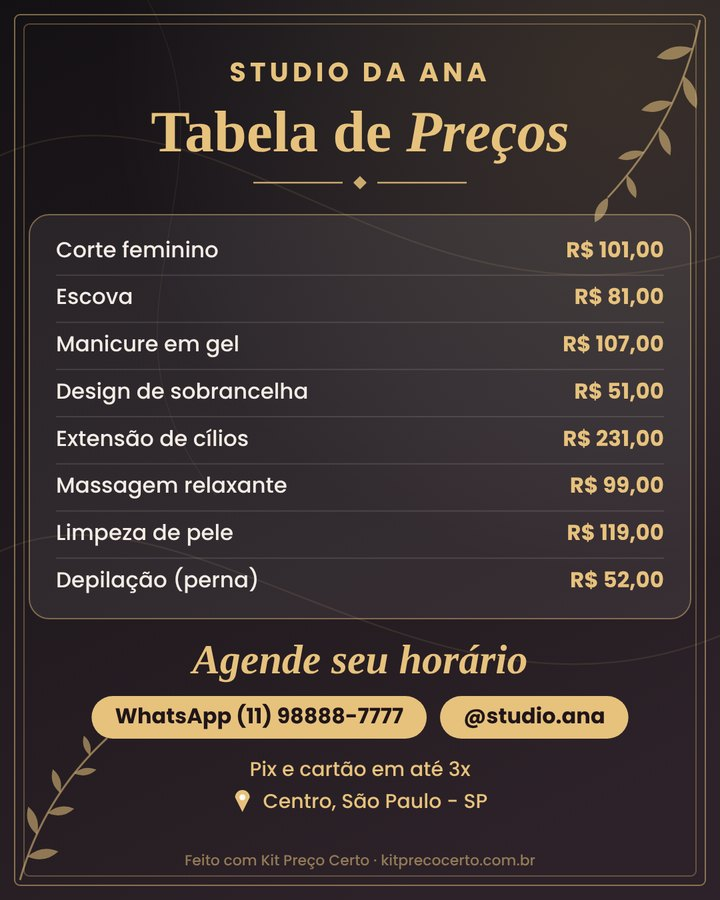
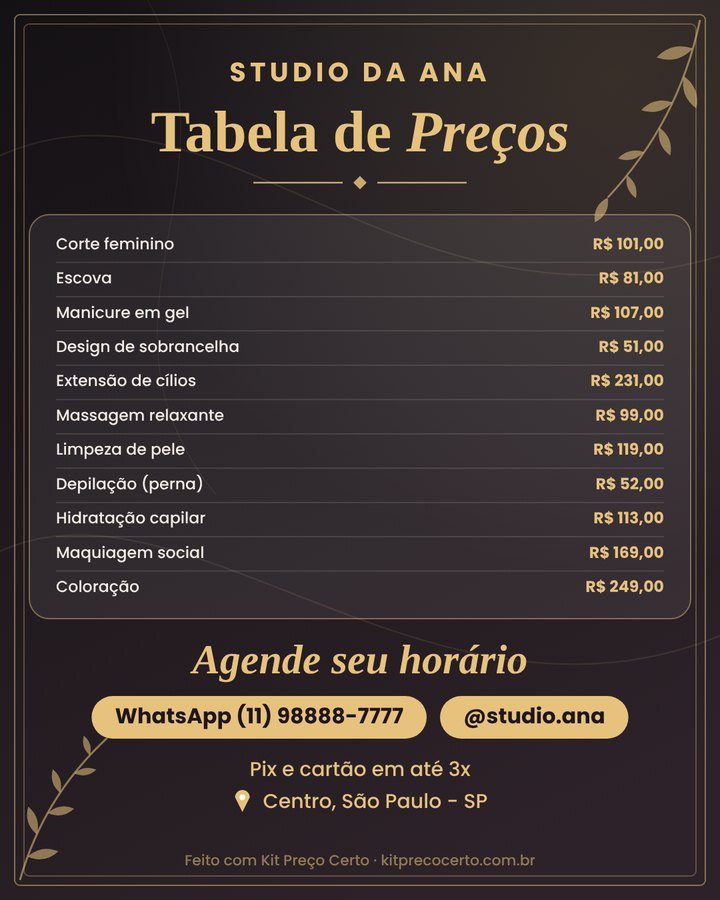
Tabelas de exemplo com 11 servicos e aviso de que os servicos nao sao fixos
Claude-Session: https://claude.ai/code/session_01VVXSWQenri3WwETC67snQx

Changed region(s): [[0.0611, 0.2489, 0.4278, 0.6844], [0.7639, 0.2489, 0.9472, 0.6844]]

diff --git a/index.html b/index.html
@@ -6,7 +6,7 @@
 <link rel="icon" type="image/png" href="favicon.png"><link rel="apple-touch-icon" href="apple-touch-icon.png">
 <link rel="preconnect" href="https://fonts.googleapis.com"><link rel="preconnect" href="https://fonts.gstatic.com" crossorigin>
 <link href="https://fonts.googleapis.com/css2?family=Fredoka:wght@600;700&family=Poppins:wght@400;500;600;700;800&family=Dancing+Script:wght@700&display=swap" rel="stylesheet">
-<link rel="stylesheet" href="style.css?v=128">
+<link rel="stylesheet" href="style.css?v=129">
 <script>document.documentElement.className+=' js';</script><script>try{if(/[?&]ignorar=1/.test(location.search))localStorage.setItem("umami.disabled","1");if(/[?&]ignorar=0/.test(location.search))localStorage.removeItem("umami.disabled")}catch(e){}</script>
 <script defer src="https://stats.kitprecocerto.com.br/script.js" data-website-id="849c7c60-d34a-4f54-abd3-b72d5e8b705a"></script>
 </head><body>
@@ -88,13 +88,13 @@
           <p class="out">Você leva a tabela pronta, em Stories e Feed</p></li>
       </ol>
       <a class="btn how-btn" href="#baixar">Quero fazer os 3 passos grátis</a>
-      <p class="how-note">Telas de <b>exemplo</b>. Seus serviços e valores ficam só no seu celular.</p>
+      <p class="how-note">Telas de <b>exemplo</b>: os serviços <b>não são fixos</b>. Você coloca os que faz, com os seus valores, e tudo fica só no seu celular.</p>
     </section>
     <div class="deliver-h" id="estilos"><span>No final, uma tabela com a cara do seu negócio</span></div>
     <div class="deliver">
     <figure class="hero-tab" id="tp" aria-label="Exemplos da imagem da tabela de preços que a calculadora gera (valores de exemplo)">
       <p class="ex-bar">✨ Exemplo: coloque os <b>seus</b> serviços</p>
-      <div class="tp-stage"><img src="tab-rosa.jpg?v=5" width="720" height="900" alt="Tabela de preços no estilo Rosa, com serviços e valores de exemplo" class="on"><img src="tab-vinho.jpg?v=5" width="720" height="900" alt="Tabela de preços no estilo Vinho e dourado, com serviços e valores de exemplo" class="" loading="lazy"><img src="tab-preto.jpg?v=5" width="720" height="900" alt="Tabela de preços no estilo Preto e dourado, com serviços e valores de exemplo" class="" loading="lazy"><img src="tab-lilas.jpg?v=5" width="720" height="900" alt="Tabela de preços no estilo Lilás, com serviços e valores de exemplo" class="" loading="lazy"><img src="tab-verde.jpg?v=5" width="720" height="900" alt="Tabela de preços no estilo Verde sálvia, com serviços e valores de exemplo" class="" loading="lazy"><img src="tab-nude.jpg?v=5" width="720" height="900" alt="Tabela de preços no estilo Nude, com serviços e valores de exemplo" class="" loading="lazy"></div>
+      <div class="tp-stage"><img src="tab-rosa.jpg?v=6" width="720" height="900" alt="Tabela de preços no estilo Rosa, com serviços e valores de exemplo" class="on"><img src="tab-vinho.jpg?v=6" width="720" height="900" alt="Tabela de preços no estilo Vinho e dourado, com serviços e valores de exemplo" class="" loading="lazy"><img src="tab-preto.jpg?v=6" width="720" height="900" alt="Tabela de preços no estilo Preto e dourado, com serviços e valores de exemplo" class="" loading="lazy"><img src="tab-lilas.jpg?v=6" width="720" height="900" alt="Tabela de preços no estilo Lilás, com serviços e valores de exemplo" class="" loading="lazy"><img src="tab-verde.jpg?v=6" width="720" height="900" alt="Tabela de preços no estilo Verde sálvia, com serviços e valores de exemplo" class="" loading="lazy"><img src="tab-nude.jpg?v=6" width="720" height="900" alt="Tabela de preços no estilo Nude, com serviços e valores de exemplo" class="" loading="lazy"></div>
       <div class="tp-dots" role="radiogroup" aria-label="Escolha o estilo da tabela"><span class="tp-d on" role="radio" tabindex="0" aria-checked="true" aria-label="Estilo Rosa" data-i="0" style="background:linear-gradient(135deg,#FBD3E2,#E91E78)"></span><span class="tp-d" role="radio" tabindex="0" aria-checked="false" aria-label="Estilo Vinho e dourado" data-i="1" style="background:linear-gradient(135deg,#8a1a50,#f6d27a)"></span><span class="tp-d" role="radio" tabindex="0" aria-checked="false" aria-label="Estilo Preto e dourado" data-i="2" style="background:linear-gradient(135deg,#211a1f,#e7c27d)"></span><span class="tp-d" role="radio" tabindex="0" aria-checked="false" aria-label="Estilo Lilás" data-i="3" style="background:linear-gradient(135deg,#E5CBF2,#8e44ad)"></span><span class="tp-d" role="radio" tabindex="0" aria-checked="false" aria-label="Estilo Verde sálvia" data-i="4" style="background:linear-gradient(135deg,#D8E7D4,#4f8a5b)"></span><span class="tp-d" role="radio" tabindex="0" aria-checked="false" aria-label="Estilo Nude" data-i="5" style="background:linear-gradient(135deg,#F1DEC8,#b0693f)"></span></div>
       <p class="tp-name" id="tpn">Estilo: Rosa</p>
       <figcaption><b>Serviços de exemplo.</b> Os seus entram na calculadora.</figcaption>
@@ -123,7 +123,7 @@
       <div class="duo-ic"><svg viewBox="0 0 24 24" fill="none" stroke="currentColor" stroke-width="1.8" stroke-linecap="round" stroke-linejoin="round"><rect x="7" y="2.5" width="10" height="19" rx="2.5"/><path d="M11 18.5h2"/></svg></div>
       <h3>Calculadora no celular</h3>
       <p>Descubra o preço certo de cada serviço e transforme em uma tabela bonita, pronta para divulgar.</p>
-      <div class="duo-thumbs" aria-hidden="true"><img src="tab-rosa.jpg?v=5" width="720" height="900" alt="" loading="lazy"><img src="tab-vinho.jpg?v=5" width="720" height="900" alt="" loading="lazy"><img src="tab-nude.jpg?v=5" width="720" height="900" alt="" loading="lazy"><span>6 estilos de cor</span></div>
+      <div class="duo-thumbs" aria-hidden="true"><img src="tab-rosa.jpg?v=6" width="720" height="900" alt="" loading="lazy"><img src="tab-vinho.jpg?v=6" width="720" height="900" alt="" loading="lazy"><img src="tab-nude.jpg?v=6" width="720" height="900" alt="" loading="lazy"><span>6 estilos de cor</span></div>
       <ul>
         <li>Calcula o preço de cada serviço, com lucro</li>
         <li>Você escolhe a cor e coloca o seu nome, Instagram e WhatsApp</li>

diff --git a/obrigado.html b/obrigado.html
@@ -18,12 +18,12 @@
 <p class="ob-k">Seu celular é a ferramenta principal</p>
 <h2 class="ob-h">Escolha o estilo da sua tabela de preços</h2>
 <div class="ob-strip" aria-label="6 estilos de tabela de preços (valores de exemplo)">
-<figure><img src="tab-rosa.jpg?v=5" width="720" height="900" alt="Estilo Rosa" loading="lazy"><figcaption>Rosa</figcaption></figure>
-<figure><img src="tab-vinho.jpg?v=5" width="720" height="900" alt="Estilo Vinho e dourado" loading="lazy"><figcaption>Vinho</figcaption></figure>
-<figure><img src="tab-preto.jpg?v=5" width="720" height="900" alt="Estilo Preto e dourado" loading="lazy"><figcaption>Preto</figcaption></figure>
-<figure><img src="tab-lilas.jpg?v=5" width="720" height="900" alt="Estilo Lilás" loading="lazy"><figcaption>Lilás</figcaption></figure>
-<figure><img src="tab-verde.jpg?v=5" width="720" height="900" alt="Estilo Verde sálvia" loading="lazy"><figcaption>Verde</figcaption></figure>
-<figure><img src="tab-nude.jpg?v=5" width="720" height="900" alt="Estilo Nude" loading="lazy"><figcaption>Nude</figcaption></figure>
+<figure><img src="tab-rosa.jpg?v=6" width="720" height="900" alt="Estilo Rosa" loading="lazy"><figcaption>Rosa</figcaption></figure>
+<figure><img src="tab-vinho.jpg?v=6" width="720" height="900" alt="Estilo Vinho e dourado" loading="lazy"><figcaption>Vinho</figcaption></figure>
+<figure><img src="tab-preto.jpg?v=6" width="720" height="900" alt="Estilo Preto e dourado" loading="lazy"><figcaption>Preto</figcaption></figure>
+<figure><img src="tab-lilas.jpg?v=6" width="720" height="900" alt="Estilo Lilás" loading="lazy"><figcaption>Lilás</figcaption></figure>
+<figure><img src="tab-verde.jpg?v=6" width="720" height="900" alt="Estilo Verde sálvia" loading="lazy"><figcaption>Verde</figcaption></figure>
+<figure><img src="tab-nude.jpg?v=6" width="720" height="900" alt="Estilo Nude" loading="lazy"><figcaption>Nude</figcaption></figure>
 </div>
 <p class="ob-hint">Deslize para ver os 6 estilos →</p>
 <a class="btn" id="gs" href="calculadora.html" target="_blank" rel="noopener">Criar a minha tabela agora</a>

diff --git a/calculadora.html b/calculadora.html
@@ -251,8 +251,8 @@ html.lock #gate{display:block}
 <li><i><svg viewBox="0 0 24 24" aria-hidden="true"><path d="M5 12.5l4.5 4.5L19 7.5"/></svg></i><span><b>O preço certo de cada serviço, com lucro</b>e aviso na hora se algum está dando prejuízo</span></li>
 <li><i><svg viewBox="0 0 24 24" aria-hidden="true"><path d="M5 12.5l4.5 4.5L19 7.5"/></svg></i><span><b>Tabela de preços pronta para postar</b>6 estilos lindos, em Stories e Feed, com o seu nome e a sua cara</span></li>
 </ul>
-<div class="gt"><div class="th"><img src="tab-rosa.jpg?v=5" alt="" width="50" height="62"><img src="tab-vinho.jpg?v=5" alt="" width="50" height="62"><img src="tab-lilas.jpg?v=5" alt="" width="50" height="62"><img src="tab-verde.jpg?v=5" alt="" width="50" height="62"></div><span>Veja como sua tabela<br>vai ficar linda</span></div>
-<div class="gd" aria-hidden="true"><img src="tab-rosa.jpg?v=5" alt=""><img src="tab-vinho.jpg?v=5" alt=""><img src="tab-preto.jpg?v=5" alt=""><img src="tab-lilas.jpg?v=5" alt=""></div>
+<div class="gt"><div class="th"><img src="tab-rosa.jpg?v=6" alt="" width="50" height="62"><img src="tab-vinho.jpg?v=6" alt="" width="50" height="62"><img src="tab-lilas.jpg?v=6" alt="" width="50" height="62"><img src="tab-verde.jpg?v=6" alt="" width="50" height="62"></div><span>Veja como sua tabela<br>vai ficar linda</span></div>
+<div class="gd" aria-hidden="true"><img src="tab-rosa.jpg?v=6" alt=""><img src="tab-vinho.jpg?v=6" alt=""><img src="tab-preto.jpg?v=6" alt=""><img src="tab-lilas.jpg?v=6" alt=""></div>
 </div>
 <div class="gc">
 <h2>Receba o acesso agora</h2>
